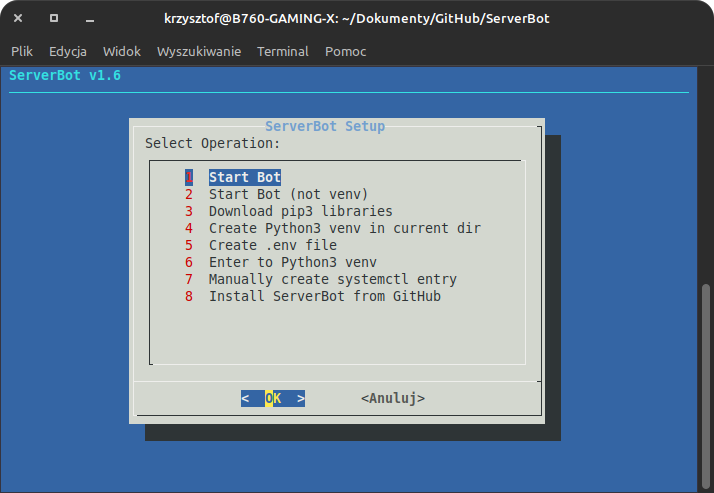
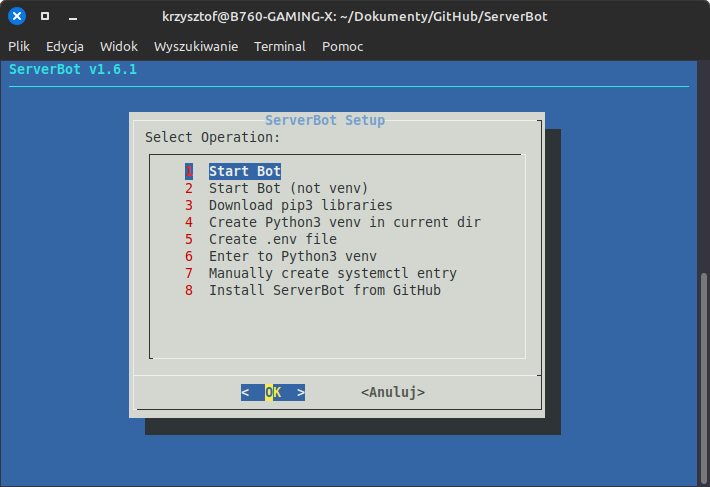
Updated to SB v1.6.1

diff --git a/ServerBot/manual.html b/ServerBot/manual.html
@@ -5,7 +5,7 @@
     <meta name="viewport" content="width=device-width, initial-scale=1.0">
     <title>ServerBot Manual</title>
     <link rel="icon" type="image/x-icon" href="Files/favicon.ico">
-    <meta name="description" content="ServerBot 1.6 User Manual [PL]">
+    <meta name="description" content="ServerBot 1.6.1 User Manual [PL]">
     <meta name="author" content="Kamile320">
 
     <style>

diff --git a/ServerBot/manualEN.html b/ServerBot/manualEN.html
@@ -5,7 +5,7 @@
     <meta name="viewport" content="width=device-width, initial-scale=1.0">
     <title>ServerBot Manual</title>
     <link rel="icon" type="image/x-icon" href="Files/favicon.ico">
-    <meta name="description" content="ServerBot 1.6 User Manual [EN]">
+    <meta name="description" content="ServerBot 1.6.1 User Manual [EN]">
     <meta name="author" content="Kamile320">
 
     <style>
